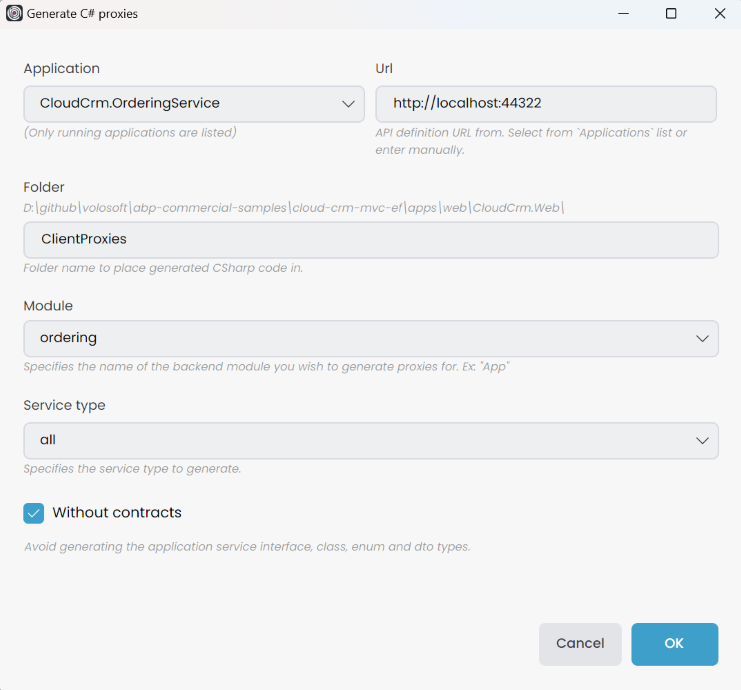
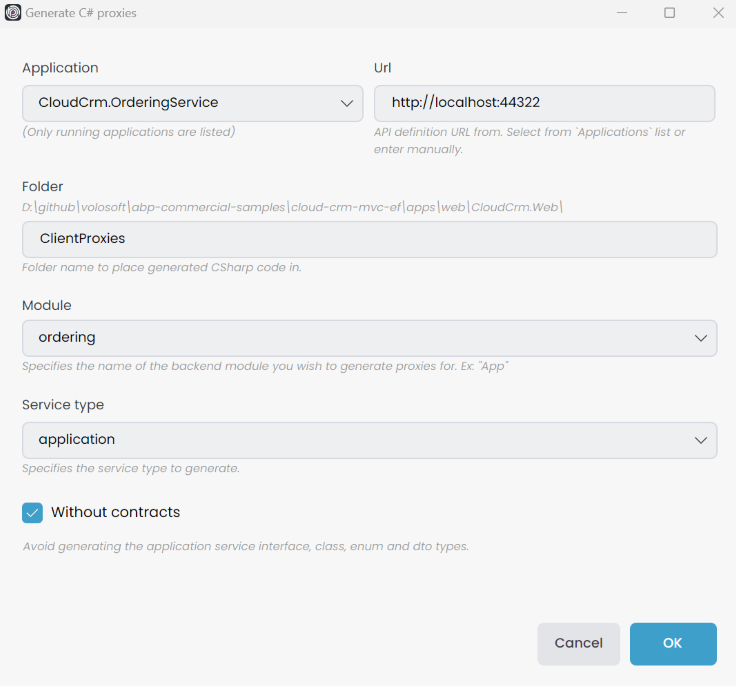
Refine microservice tutorial in parts 03 and 05 to clarify instructions for generating C# proxies and creating entities, including updates on folder structure and application service configuration.

diff --git a/docs/en/tutorials/microservice/part-05.md b/docs/en/tutorials/microservice/part-05.md
@@ -18,7 +18,7 @@ In the previous part, we created the Ordering microservice. In this part, we wil
 
 ## Creating the Order Entity
 
-We will start by creating the `Order` entity, which will represent an order in our system. We'll add this entity to the `CloudCrm.OrderingService` project. Open the `Entities` folder and place `Order.cs` into that folder.
+We will start by creating the `Order` entity, which will represent an order in our system. We'll add this entity to the `CloudCrm.OrderingService` project. Create a new folder named `Entities` and add a class named `Order` inside it.
 
 ```csharp
 using CloudCrm.OrderingService.Enums;
@@ -38,9 +38,11 @@ To keep this example simple, we allow users to include only a single product wit
 
 ### Adding the OrderState Enum
 
-We also need to define the `OrderState` enum. Open an `Enums` folder in the `CloudCrm.OrderingService.Contracts` project and create an `OrderState.cs` file inside it:
+We also need to define the `OrderState` enum. In the `CloudCrm.OrderingService.Contracts` project, create a folder named `Enums` and add an `OrderState` enum inside it:
 
 ```csharp
+namespace CloudCrm.OrderingService.Enums;
+
 public enum OrderState : byte
 {
     Placed = 0,
@@ -130,15 +132,7 @@ Once you click the *OK* button, a new database migration class is added to the `
 
 ![visual-studio-new-migration-class](images/visual-studio-new-migration-class.png)
 
-Now, you can return to ABP Studio, right-click the `CloudCrm.OrderingService` project and select the *EF Core CLI* -> *Update Database* command:
-
-![abp-studio-entity-framework-core-update-database](images/abp-studio-entity-framework-core-update-database.png)
-
-> Since we are using a Docker Compose setup, the *Docker-Dependencies* must be running to apply the migration. If it is not running, you can start it by right-clicking on the `Docker-Dependencies` [CLI application](../../studio/running-applications.md#cli-application-1) and selecting *Run* -> *Start* on the *Solution Runner*.
-
-After the operation completes, you can check your database to see the new `Orders` table has been created:
-
-![sql-server-orders-database-table](images/sql-server-orders-database-table.png)
+The changes will be applied to the database during the next application startup. For more details, refer to the [database migrations on service startup](../../solution-templates/microservice/database-configurations.md#database-migrations-on-service-startup) section.
 
 ## Creating the Application Service
 
@@ -298,10 +292,11 @@ Create a new `Orders` folder under the `Pages` folder in the `CloudCrm.Web` proj
 ```csharp
 using CloudCrm.OrderingService.Services;
 using Microsoft.AspNetCore.Mvc.RazorPages;
+using Volo.Abp.AspNetCore.Mvc.UI.RazorPages;
 
 namespace CloudCrm.Web.Pages.Orders;
 
-public class Index : PageModel
+public class Index : AbpPageModel
 {
     public List<OrderDto> Orders { get; set; }
 
@@ -347,15 +342,15 @@ This page shows a list of orders on the UI. We haven't created a UI to create ne
 
 ### Generating the UI Proxy
 
+To select the *Application* during proxy generation, ensure that the `CloudCrm.OrderingService` is *Started* beforehand. You can start the application using [Solution Runner](../../studio/running-applications.md).  
+
 Now, we need to generate the [Static API Proxy](../../framework/api-development/static-csharp-clients.md) for the *Web* project. Right-click the *CloudCrm.Web* [package](../../studio/concepts.md#package) and select the *ABP CLI* -> *Generate Proxy* -> *C#* command:
 
 ![abp-studio-generate-proxy-2](images/abp-studio-generate-proxy-2.png)
 
-It will open the *Generate C# Proxies* window. Select the `CloudCrm.OrderingService` application, and it will automatically populate the *URL* field. Choose the *ordering* module, and check the *Without contracts* checkbox, since we already have a dependency on the `CloudCrm.OrderingService.Contracts` package in the `CloudCrm.Web` project.
+It will open the *Generate C# Proxies* window. Select the `CloudCrm.OrderingService` application, and it will automatically populate the *URL* field. Choose the *ordering* module and service type is *application* lastly check the *Without contracts* checkbox, since we already have a dependency on the `CloudCrm.OrderingService.Contracts` package in the `CloudCrm.Web` project.
 
 ![abp-studio-generate-proxy-window-ordering-module](images/abp-studio-generate-proxy-window-ordering-module.png)
-
-> To be able to select the *Application*, you must *Build & Start* the related application beforehand. You can start the application using [Solution Runner](../../studio/running-applications.md).
 
 Lastly, we need to configure the use of a static HTTP client for the `OrderingService` in the `CloudCrm.Web` project. Open the `CloudCrmWebModule.cs` file in the `Web` project and add the following line to the `ConfigureServices` method:
 

diff --git a/docs/en/tutorials/microservice/part-03.md b/docs/en/tutorials/microservice/part-03.md
@@ -85,7 +85,7 @@ Now, we need to generate the [Static API Proxy](../../framework/api-development/
 
 ![abp-studio-generate-proxy](images/abp-studio-generate-proxy.png)
 
-It will open the *Generate C# Proxies* window. Select the `CloudCrm.CatalogService` application, and it will automatically populate the *URL* field. Choose the *catalog* module, and check the *Without contracts* checkbox, since we already have a dependency on the `CloudCrm.CatalogService.Contracts` package in the `CloudCrm.Web` project.
+It will open the *Generate C# Proxies* window. Select the `CloudCrm.CatalogService` application, and it will automatically populate the *URL* field. Select the *catalog* module, set the service type to *application*, and check the *Without contracts* checkbox, as the `CloudCrm.Web` project already depends on the `CloudCrm.CatalogService.Contracts` package.
 
 ![abp-studio-generate-proxy-window](images/abp-studio-generate-proxy-window.png)
 
